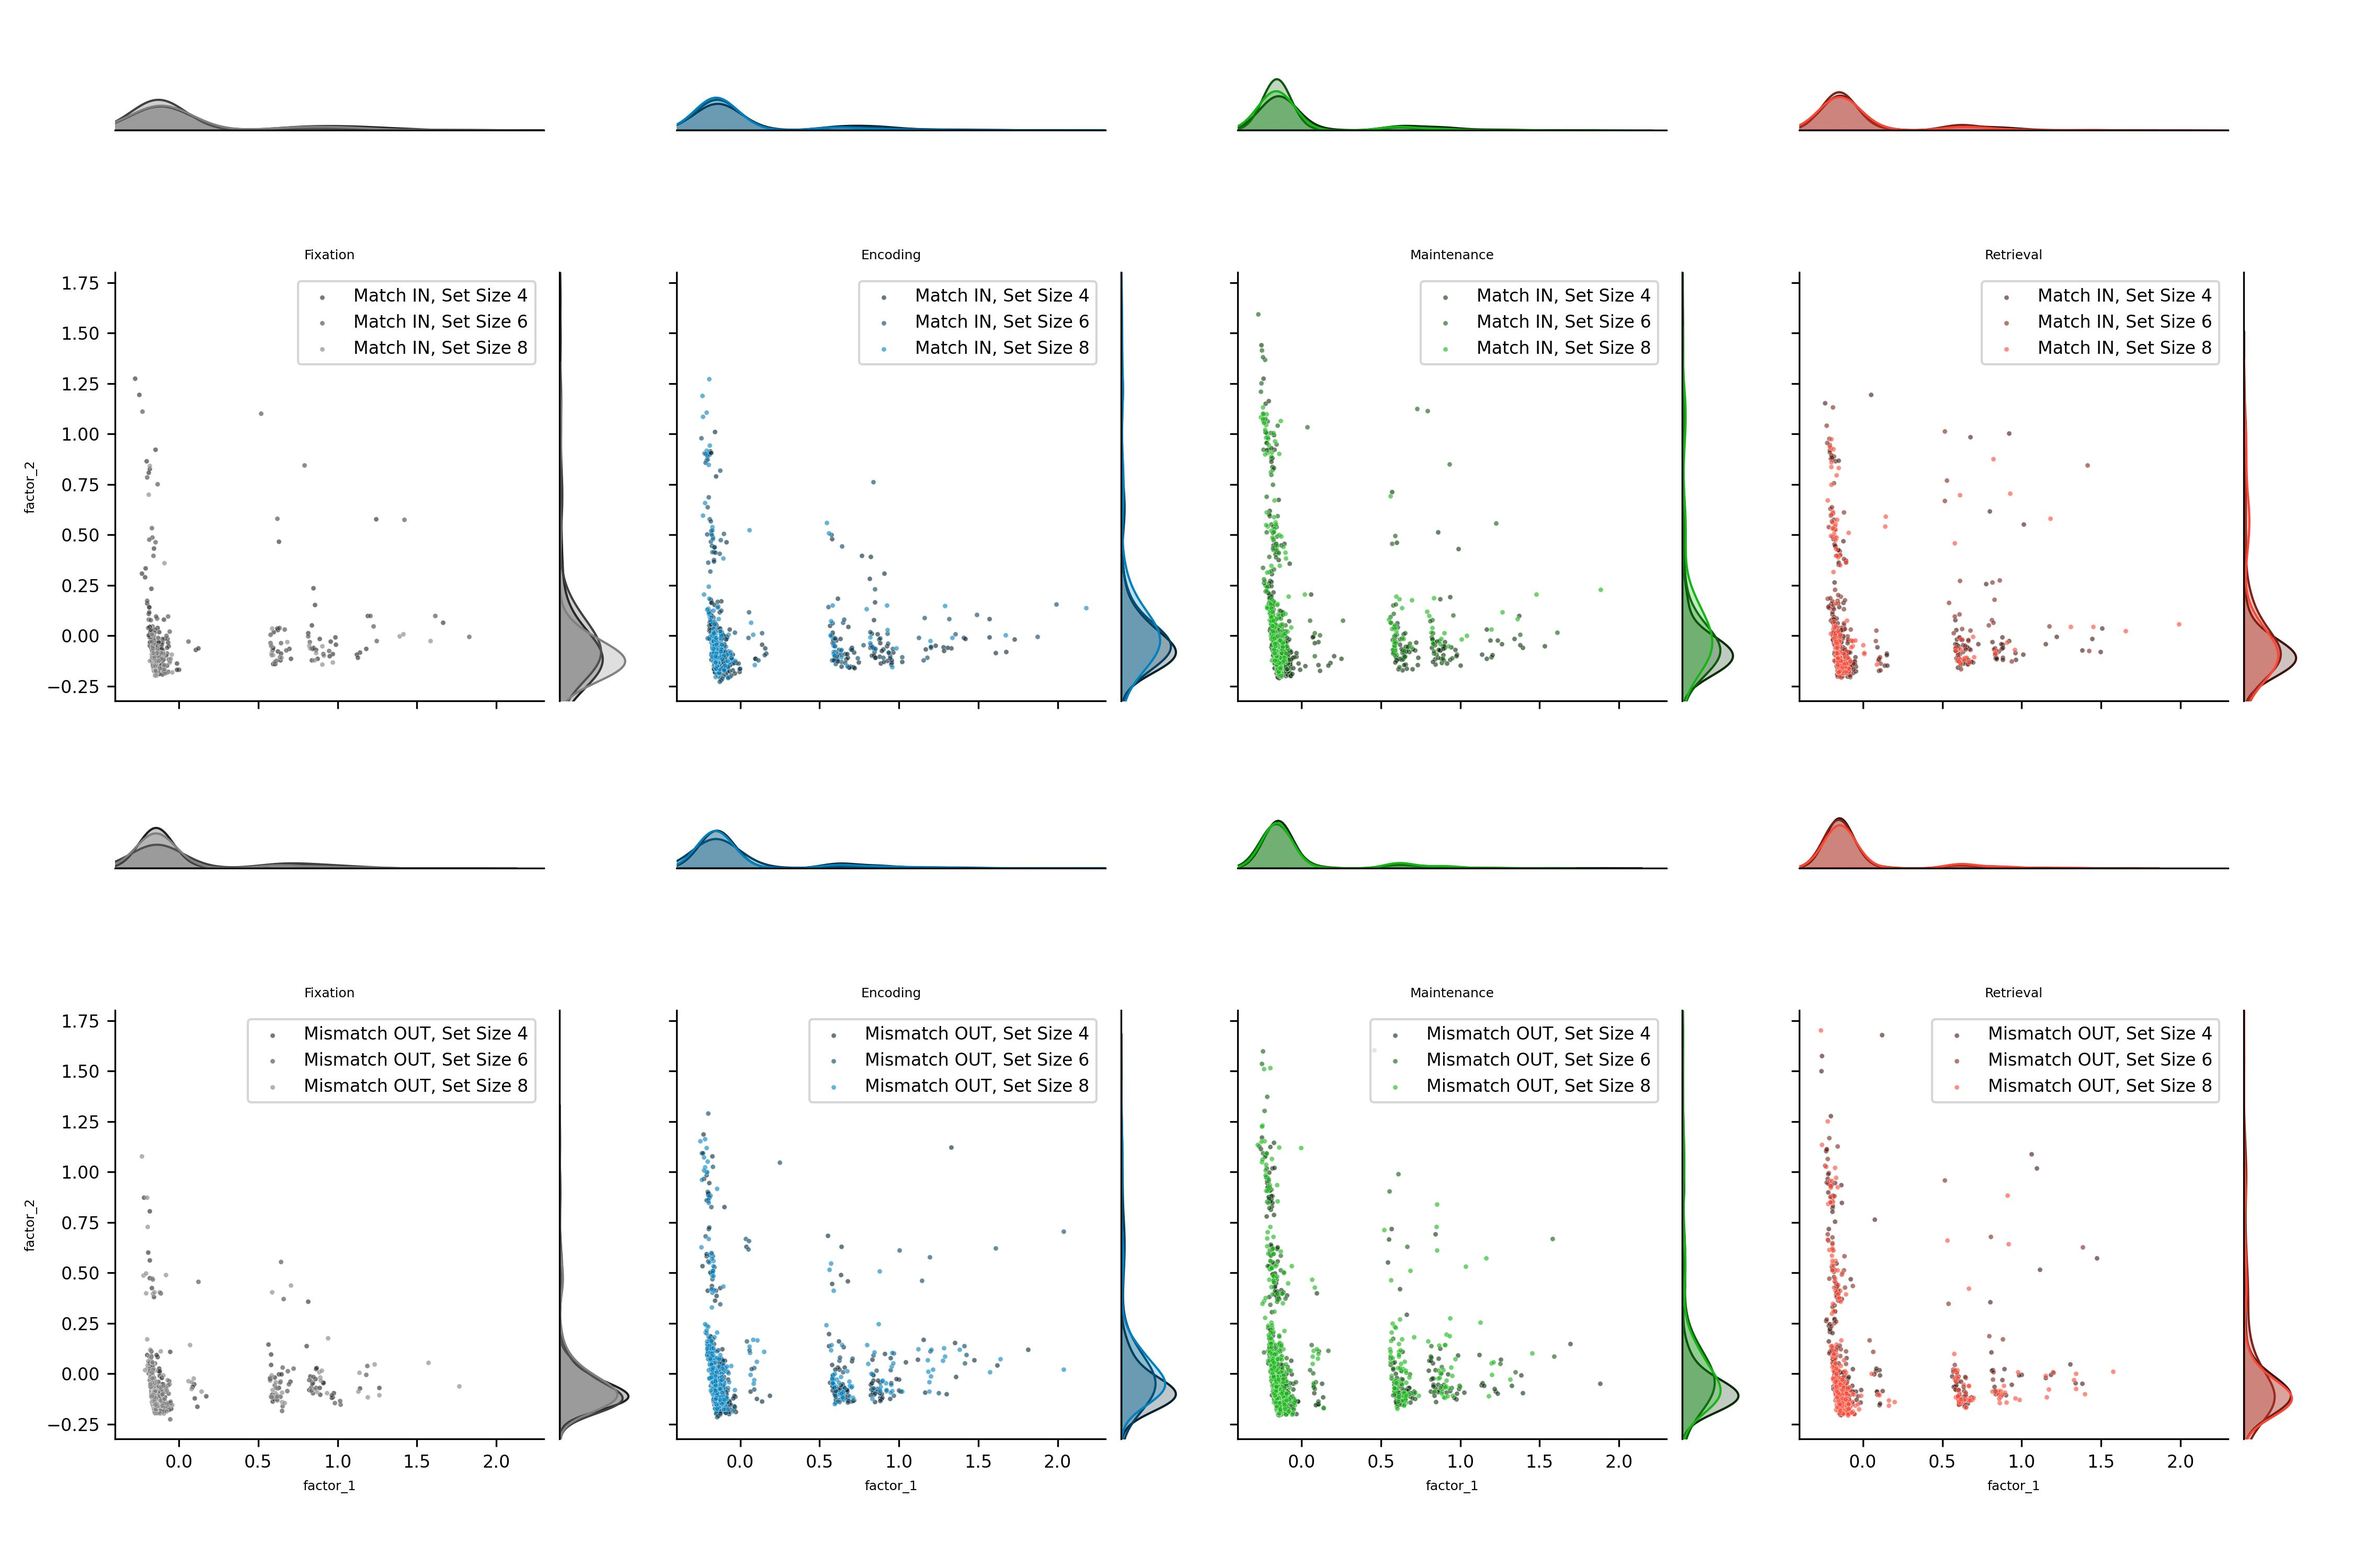
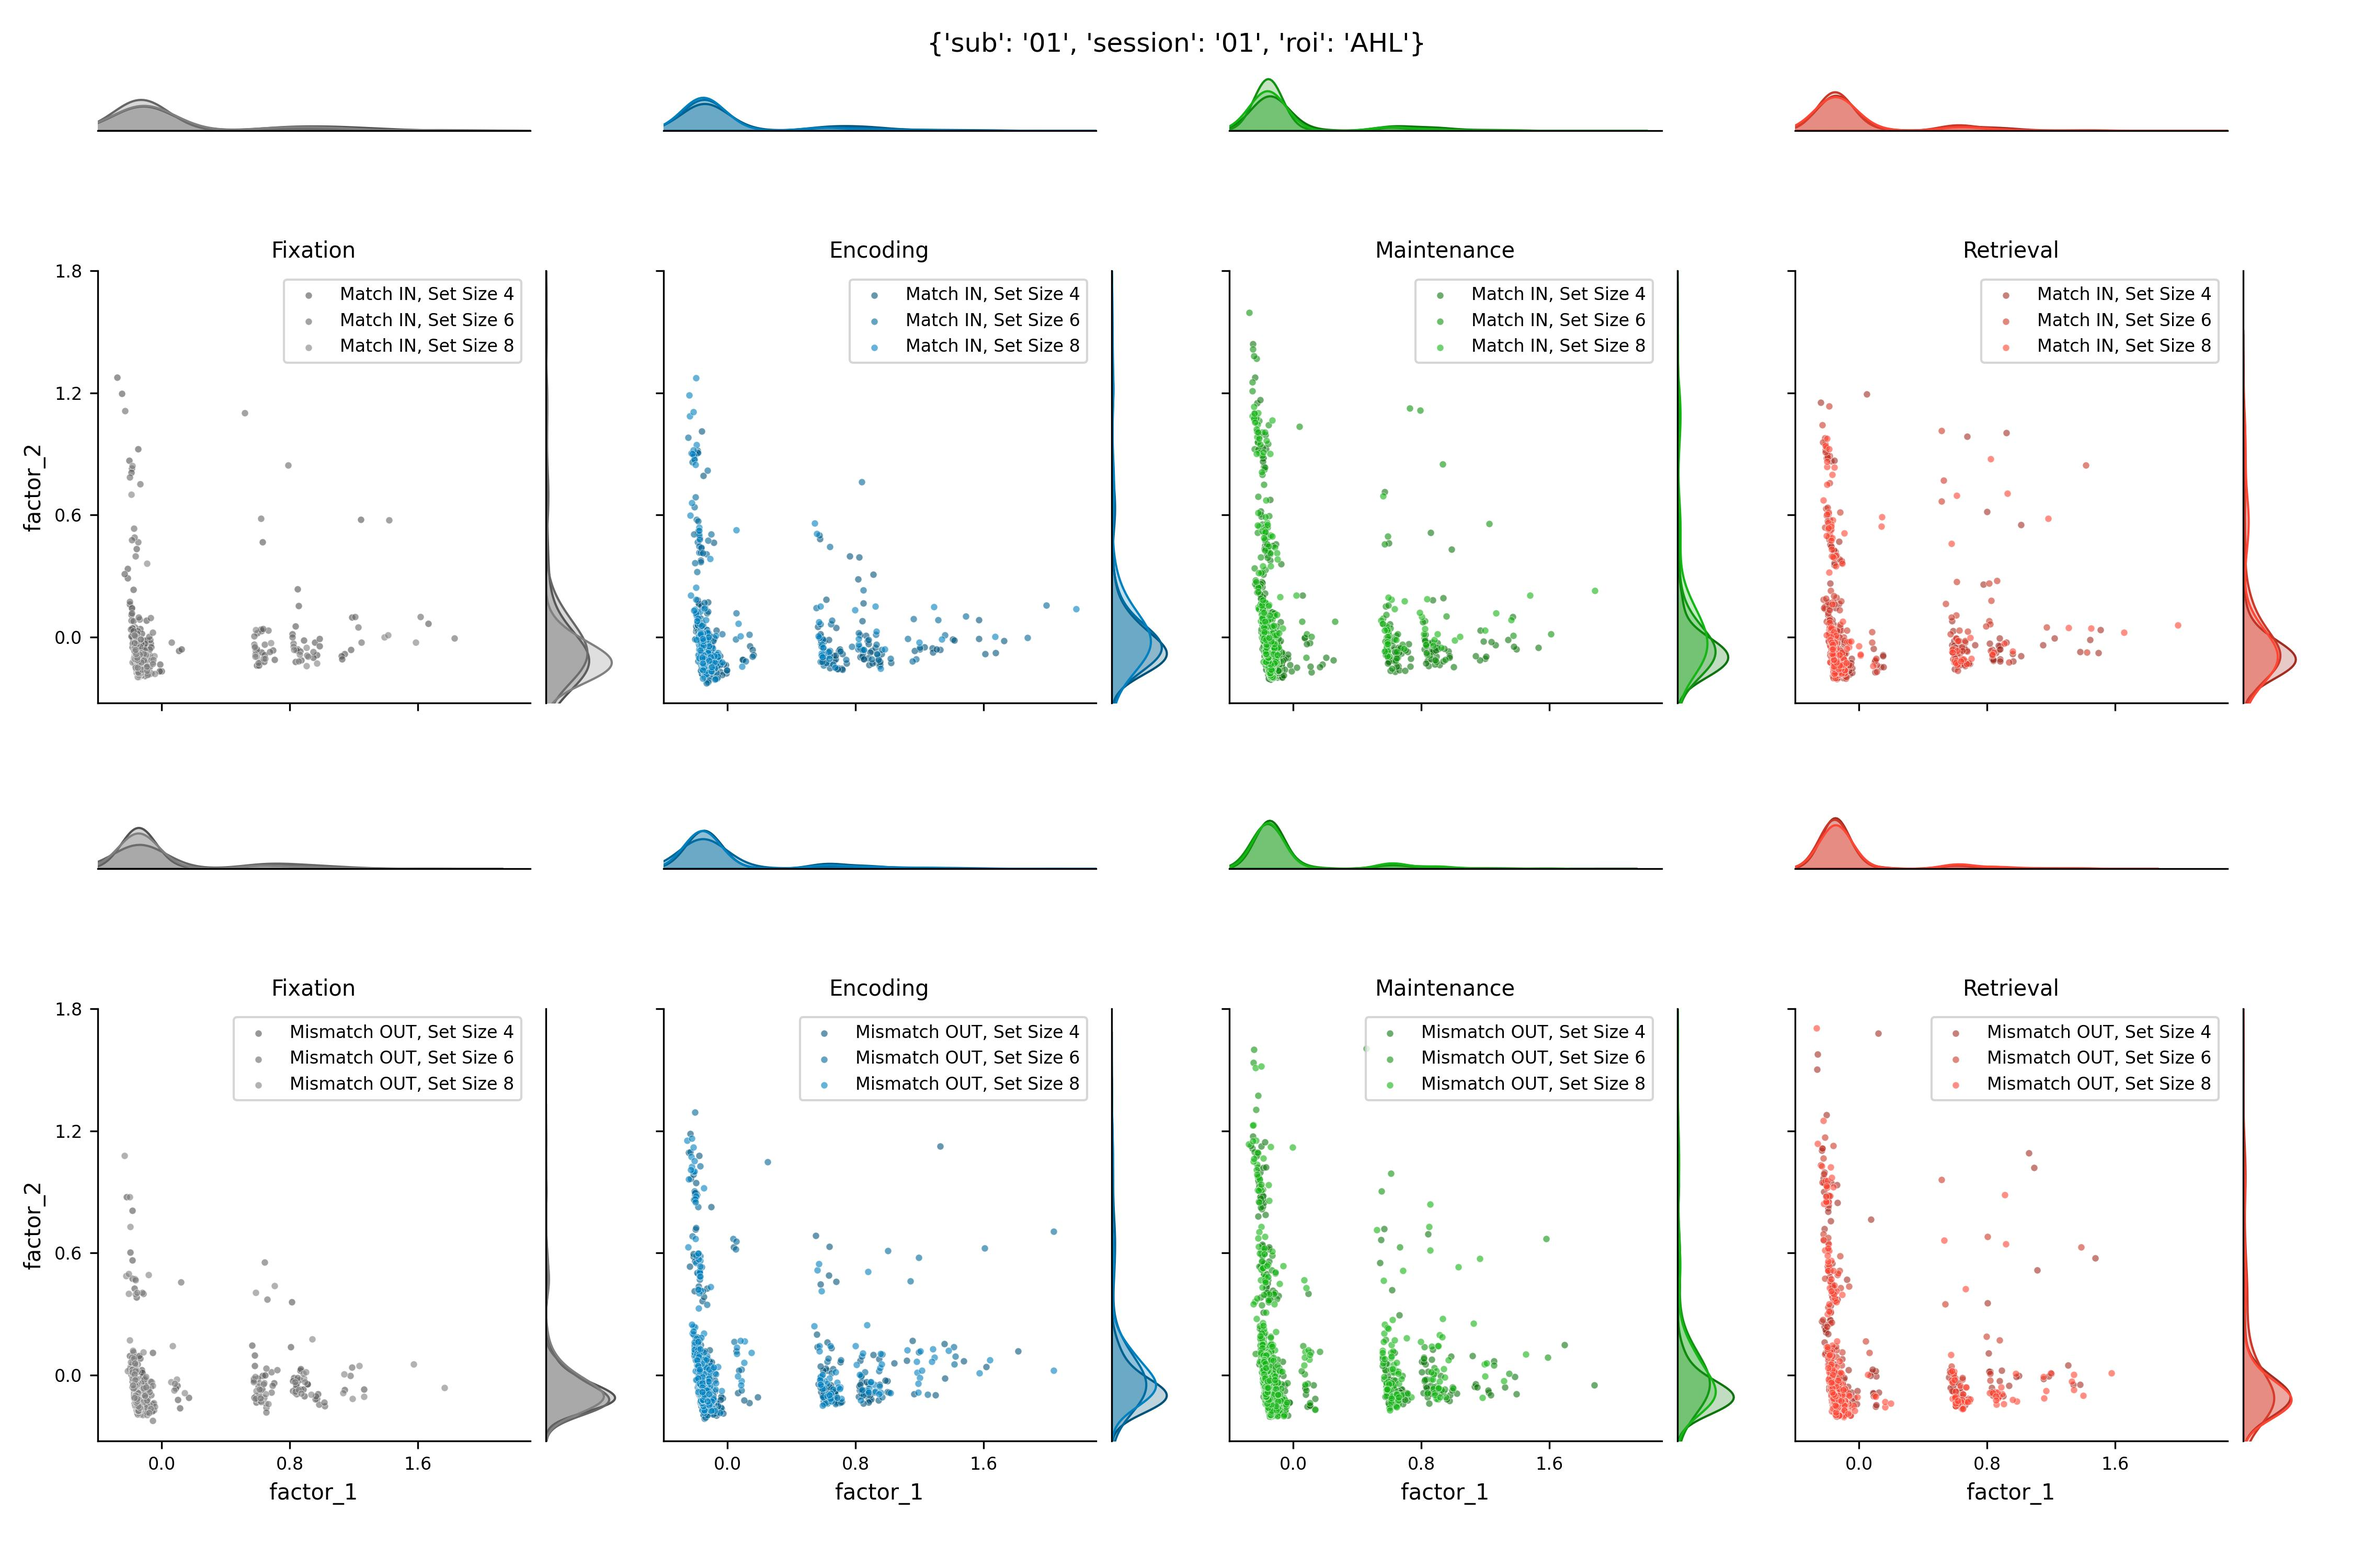
update-2024-07-09-21-04-23

diff --git a/scripts/NT/kde.py b/scripts/NT/kde.py
@@ -1,6 +1,6 @@
 #!./env/bin/python3
 # -*- coding: utf-8 -*-
-# Time-stamp: "2024-07-09 19:20:58 (ywatanabe)"
+# Time-stamp: "2024-07-09 22:02:29 (ywatanabe)"
 # /mnt/ssd/ripple-wm-code/scripts/NT/kde.py
 
 
@@ -65,12 +65,14 @@ Functions & Classes
 
 def gradiate_colors(base_color, n_colors):
     colors = []
+    factor = 1.0
     for ic in range(n_colors):
-        factor = 0.5**ic
         _c = factor * base_color
         _c[-1] = base_color[-1]
         _c = list(_c)
         colors.append(_c)
+        factor *= 0.8
+    colors = np.clip(colors, 0, 1)
     return colors[::-1]
 
 
@@ -111,10 +113,9 @@ def prepare_marginal_axes(ax):
 
 
 def cleanup_axes(ax, ax_marg_x, ax_marg_y, max_density_x, max_density_y):
+    # Set the same density limits for all marginal plots
     ax_marg_x.set_xlim(ax.get_xlim())
     ax_marg_y.set_ylim(ax.get_ylim())
-
-    # Set the same density limits for all marginal plots
     ax_marg_x.set_ylim(0, max_density_x * 1.25)
     ax_marg_y.set_xlim(0, max_density_y * 1.25)
 
@@ -138,6 +139,9 @@ def custom_joint_plot(data, nrows, ncols, figsize=(15, 10)):
     fig, axes = plt.subplots(
         nrows=nrows, ncols=ncols, figsize=figsize, sharex=True, sharey=True
     )
+    # fig, axes = mngs.plt.subplots(
+    #     nrows=nrows, ncols=ncols, sharex=True, sharey=True
+    # )
 
     max_density_x, max_density_y = calc_max_density(data)
 
@@ -171,7 +175,7 @@ def custom_joint_plot(data, nrows, ncols, figsize=(15, 10)):
                 x="factor_1",
                 y="factor_2",
                 ax=ax,
-                s=5,
+                s=10,
                 color=color,
                 alpha=0.6,
                 label=label,
@@ -185,6 +189,7 @@ def custom_joint_plot(data, nrows, ncols, figsize=(15, 10)):
                 ax=ax_marg_x,
                 color=color,
                 common_norm=True,
+                # linewidth=2,
             )
             sns.kdeplot(
                 data=dd,
@@ -194,6 +199,7 @@ def custom_joint_plot(data, nrows, ncols, figsize=(15, 10)):
                 color=color,
                 vertical=True,
                 common_norm=True,
+                # linewidth=2,
             )
 
         cleanup_axes(ax, ax_marg_x, ax_marg_y, max_density_x, max_density_y)
@@ -244,6 +250,7 @@ def kde_plot(lpath_NT, znorm=False, symlog=False, unbias=False):
         NT = mngs.gen.symlog(NT, 1e-5)
 
     parsed = utils.parse_lpath(lpath_NT)
+
     trials_info = mngs.io.load(
         eval(mngs.gen.replace(CONFIG.PATH.TRIALS_INFO, parsed))
     )
@@ -285,6 +292,8 @@ def kde_plot(lpath_NT, znorm=False, symlog=False, unbias=False):
         figsize=(15, 10),
     )
 
+    fig.suptitle(str(parsed))
+
     scale = "linear" if not symlog else "symlog"
     znorm_str = "NT" if not znorm else "NT_z"
     unbias_str = "unbiased" if unbias else "orig"
@@ -302,7 +311,10 @@ def main():
     from itertools import product
 
     for znorm, symlog, unbias in product(
-        [False, True], [False, True], [False, True]
+        # [False, True], [False, True], [False, True]
+        [False],
+        [False],
+        [False],
     ):
         # for znorm in [False, True]:
         if znorm:
@@ -312,11 +324,6 @@ def main():
 
         for lpath_NT in LPATHS_NT:
             kde_plot(lpath_NT, znorm=znorm, symlog=symlog, unbias=unbias)
-
-    # for lpath_NT in LPATHS_NT:
-    # for symlog in [False, True]:
-    # kde_plot(lpath_NT, znorm=znorm, symlog=symlog)
-    # plt.close()
 
 
 if __name__ == "__main__":
@@ -333,9 +340,9 @@ if __name__ == "__main__":
         plt,
         verbose=False,
         agg=True,
-        font_size_axis_label=6,
-        font_size_title=6,
-        alpha=0.75,
+        # font_size_axis_label=6,
+        # font_size_title=6,
+        alpha=0.3,
         fig_scale=2,
     )
     main()

diff --git a/README.md b/README.md
@@ -16,7 +16,10 @@
 ``` bash
 ./scripts/figures/01.py
 ./scripts/figures/02.py
-
+ 
+ 
+ 
+ 
 ```
 
 
